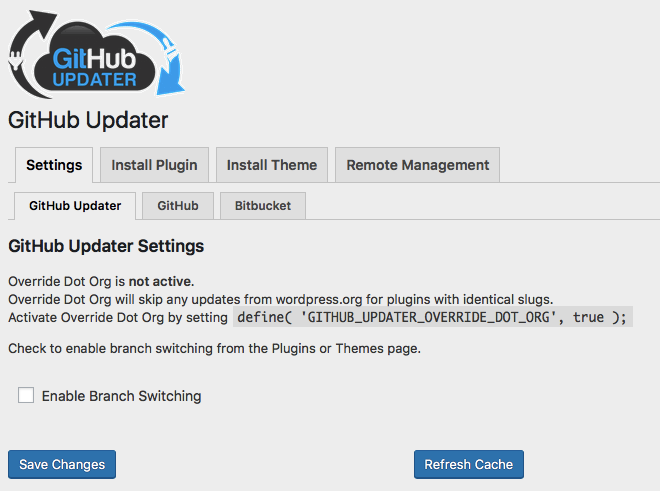
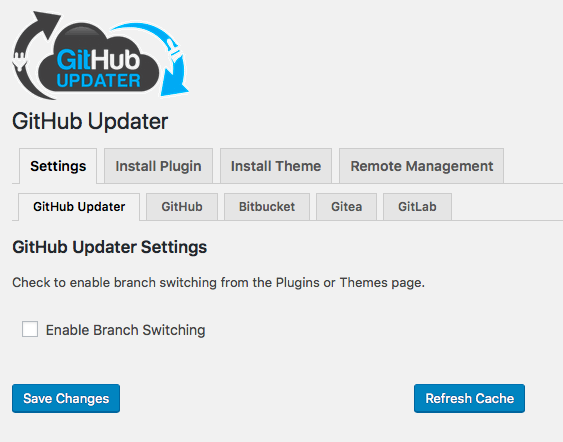
Merge branch 'refactor-override' into develop
Deprecate override constant in favor of filter
Fixes https://github.com/afragen/github-updater/issues/731

Changed region(s): [[0.0, 0.0, 0.9663, 0.8235], [0.6039, 0.8529, 0.9361, 1.0], [0.0, 0.8529, 0.2114, 1.0]]

diff --git a/src/GitHub_Updater/Traits/GHU_Trait.php b/src/GitHub_Updater/Traits/GHU_Trait.php
@@ -226,13 +226,41 @@ trait GHU_Trait {
 	}
 
 	/**
-	 * Is override dot org option active?
+	 * Do we override dot org updates?
+	 *
+	 * @param string    $type (plugin|theme)
+	 * @param \stdClass $repo Repository object.
 	 *
 	 * @return bool
 	 */
-	public function is_override_dot_org() {
-		return ( defined( 'GITHUB_UPDATER_OVERRIDE_DOT_ORG' ) && GITHUB_UPDATER_OVERRIDE_DOT_ORG ) ||
-			( defined( 'GITHUB_UPDATER_EXTENDED_NAMING' ) && GITHUB_UPDATER_EXTENDED_NAMING );
+	public function override_dot_org( $type, $repo ) {
+		$transient_key  = 'plugin' === $type ? $repo->file : null;
+		$transient_key  = 'theme' === $type ? $repo->slug : $transient_key;
+		$dot_org_master = $repo->dot_org && 'master' === $repo->branch;
+
+		/**
+		 * Filter update to override dot org.
+		 *
+		 * @since 8.5.0
+		 *
+		 * @return bool
+		 */
+		$override = in_array( $transient_key, apply_filters( 'github_updater_override_dot_org', [] ), true );
+
+		return ! $dot_org_master || $override || $this->deprecate_override_constant();
+	}
+
+	/**
+	 * Deprecated dot org override constant.
+	 *
+	 * @return bool
+	 */
+	public function deprecate_override_constant() {
+		if ( defined( 'GITHUB_UPDATER_OVERRIDE_DOT_ORG' ) && GITHUB_UPDATER_OVERRIDE_DOT_ORG ) {
+			error_log( 'GITHUB_UPDATER_OVERRIDE_DOT_ORG constant deprecated. Use `github_updater_override_dot_org` filter hook.' );
+			return true;
+		}
+		return false;
 	}
 
 	/**

diff --git a/src/GitHub_Updater/Plugin.php b/src/GitHub_Updater/Plugin.php
@@ -409,15 +409,9 @@ class Plugin extends Base {
 					continue;
 				}
 
-				// If branch is 'master' and plugin is in wp.org repo then pull update from wp.org.
-				if ( $plugin->dot_org && 'master' === $plugin->branch ) {
-					$transient = empty( $transient ) ? get_site_transient( 'update_plugins' ) : $transient;
-					if ( isset( $transient->response[ $plugin->file ], $transient->response[ $plugin->file ]->type ) ) {
-						unset( $transient->response[ $plugin->file ] );
-					}
-					if ( ! $this->tag ) {
-						continue;
-					}
+				// Pull update from dot org if not overriding.
+				if ( ! $this->override_dot_org( 'plugin', $plugin ) ) {
+					continue;
 				}
 
 				$transient->response[ $plugin->file ] = (object) $response;
@@ -425,14 +419,6 @@ class Plugin extends Base {
 				if ( isset( $transient->response[ $plugin->file ] ) ) {
 					unset( $transient->response[ $plugin->file ] );
 				}
-			}
-
-			// Unset if override dot org AND same slug on dot org.
-			if ( isset( $transient->response[ $plugin->file ] ) &&
-				! isset( $transient->response[ $plugin->file ]->type ) &&
-				$this->is_override_dot_org()
-			) {
-				unset( $transient->response[ $plugin->file ] );
 			}
 
 			// Set transient on rollback.

diff --git a/src/GitHub_Updater/Theme.php b/src/GitHub_Updater/Theme.php
@@ -644,15 +644,9 @@ class Theme extends Base {
 					continue;
 				}
 
-				// If branch is 'master' and repo is in wp.org repo then pull update from wp.org.
-				if ( $theme->dot_org && 'master' === $theme->branch ) {
-					$transient = empty( $transient ) ? get_site_transient( 'update_themes' ) : $transient;
-					if ( isset( $transient->response[ $theme->slug ], $transient->response[ $theme->slug ]['type'] ) ) {
-						unset( $transient->response[ $theme->slug ] );
-					}
-					if ( ! $this->tag ) {
-						continue;
-					}
+				// Pull update from dot org if not overriding.
+				if ( ! $this->override_dot_org( 'theme', $theme ) ) {
+					continue;
 				}
 
 				$transient->response[ $theme->slug ] = $response;
@@ -660,14 +654,6 @@ class Theme extends Base {
 				if ( isset( $transient->response[ $theme->slug ] ) ) {
 					unset( $transient->response[ $theme->slug ] );
 				}
-			}
-
-			// Unset if override dot org AND same slug on dot org.
-			if ( isset( $transient->response[ $theme->slug ] ) &&
-				! isset( $transient->response[ $theme->slug ]['type'] ) &&
-				$this->is_override_dot_org()
-			) {
-				unset( $transient->response[ $theme->slug ] );
 			}
 
 			// Set transient for rollback.

diff --git a/src/GitHub_Updater/Settings.php b/src/GitHub_Updater/Settings.php
@@ -522,14 +522,6 @@ class Settings extends Base {
 	 * Print the GitHub Updater Settings text.
 	 */
 	public function print_section_ghu_settings() {
-		if ( $this->is_override_dot_org() ) {
-			echo ( wp_kses_post( __( 'Override Dot Org is <strong>active</strong>.', 'github-updater' ) ) );
-		} else {
-			echo( wp_kses_post( __( 'Override Dot Org is <strong>not active</strong>.', 'github-updater' ) ) );
-		}
-		echo '<br>' . esc_html__( 'Override Dot Org will skip any updates from wordpress.org for plugins with identical slugs.', 'github-updater' );
-		/* translators: %s: code fragment */
-		printf( '<br>' . esc_html__( 'Activate Override Dot Org by setting %s', 'github-updater' ), '<code>define( \'GITHUB_UPDATER_OVERRIDE_DOT_ORG\', true );</code>' );
 		echo '<p>' . esc_html__( 'Check to enable branch switching from the Plugins or Themes page.', 'github-updater' ) . '</p>';
 	}
 

diff --git a/github-updater.php b/github-updater.php
@@ -12,7 +12,7 @@
  * Plugin Name:       GitHub Updater
  * Plugin URI:        https://github.com/afragen/github-updater
  * Description:       A plugin to automatically update GitHub, Bitbucket, GitLab, or Gitea hosted plugins, themes, and language packs. It also allows for remote installation of plugins or themes into WordPress.
- * Version:           8.4.2.1
+ * Version:           8.4.2.2
  * Author:            Andy Fragen
  * License:           GNU General Public License v2
  * License URI:       http://www.gnu.org/licenses/gpl-2.0.html

diff --git a/src/GitHub_Updater/API.php b/src/GitHub_Updater/API.php
@@ -475,17 +475,12 @@ class API {
 
 	/**
 	 * Query wp.org for plugin/theme information.
-	 * Exit early and false for override dot org active.
 	 *
 	 * @access protected
 	 *
 	 * @return bool|int|mixed|string|\WP_Error
 	 */
 	protected function get_dot_org_data() {
-		if ( $this->is_override_dot_org() ) {
-			return false;
-		}
-
 		$response = isset( $this->response['dot_org'] ) ? $this->response['dot_org'] : false;
 
 		if ( ! $response ) {

diff --git a/CHANGES.md b/CHANGES.md
@@ -1,6 +1,7 @@
 #### [unreleased]
 * ensure `$slug` is set in `Init->rename_on_activation()`
 * specify branch for changelog
+* refactored dot org override, constant deprecated in favor of new filter `github_updater_override_dot_org`
 
 #### 8.4.2 / 2018-11-01
 * updated password fields to not autoload saved passwords, thanks @figureone
